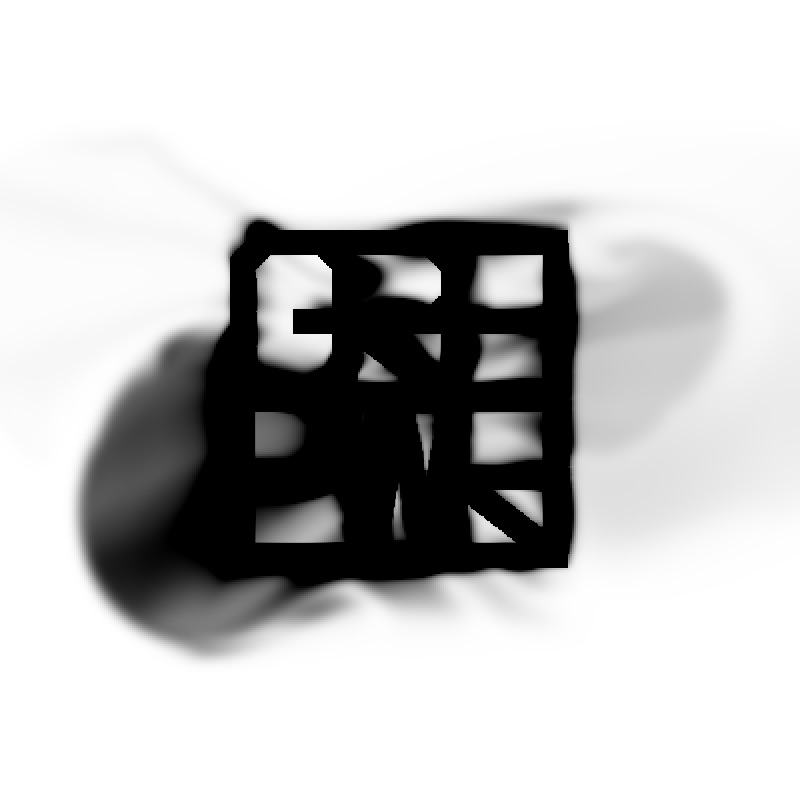
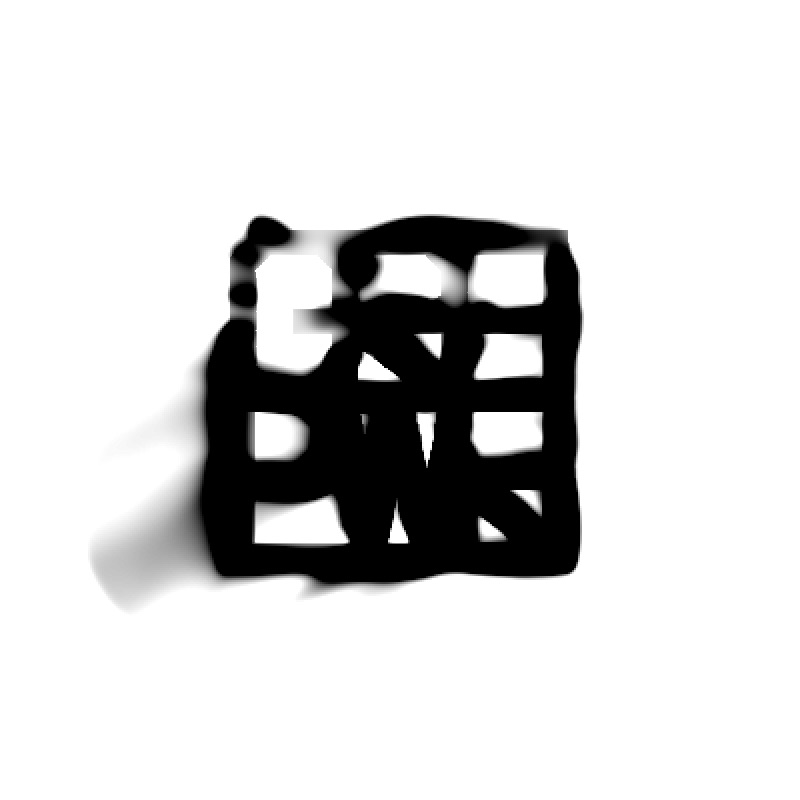
ink and flare back as they were; emboss centred and smaller on a phone
- INK: the previous shader again (it was right on phones); only the canvas
  background goes from #05000f to white, which desktop Safari showed through.
- FLARE: overlay logo removed, back to the original look.
- EMBOSS on a phone: sized by the visible area instead of screen.height, so
  the mark is in the middle of what is seen; mark 0.7 of the width.

diff --git a/dist/emboss/assets/index.5905b0ac.js b/dist/emboss/assets/index.5905b0ac.js
@@ -1,0 +1,64 @@
+var R=Object.defineProperty;var N=(o,e,t)=>e in o?R(o,e,{enumerable:!0,configurable:!0,writable:!0,value:t}):o[e]=t;var i=(o,e,t)=>(N(o,typeof e!="symbol"?e+"":e,t),t);import{d as p,W as U,S as z,P as X,O as B,a as D,T as G,b as I,V as c,M as F,c as W,e as q,C as k}from"./vendor.ce827b87.js";const V=function(){const e=document.createElement("link").relList;if(e&&e.supports&&e.supports("modulepreload"))return;for(const n of document.querySelectorAll('link[rel="modulepreload"]'))s(n);new MutationObserver(n=>{for(const r of n)if(r.type==="childList")for(const l of r.addedNodes)l.tagName==="LINK"&&l.rel==="modulepreload"&&s(l)}).observe(document,{childList:!0,subtree:!0});function t(n){const r={};return n.integrity&&(r.integrity=n.integrity),n.referrerpolicy&&(r.referrerPolicy=n.referrerpolicy),n.crossorigin==="use-credentials"?r.credentials="include":n.crossorigin==="anonymous"?r.credentials="omit":r.credentials="same-origin",r}function s(n){if(n.ep)return;n.ep=!0;const r=t(n);fetch(n.href,r)}};V();class j{constructor(e={}){i(this,"opt");i(this,"el");this.opt=e,this.el=this.opt.el}init(){}dispose(){this.opt=null,this.el=null}getEl(){return this.el}hasData(e){return this.getEl().getAttribute(e)!=null}getData(e,t){const s=this.getEl().getAttribute(e);return s==null?t:s}qs(e){return this.el.querySelector(e)}qsAll(e){return this.el.querySelectorAll(e)}hasClass(e){return this.el.classList.contains(e)}addClass(e){this.el.classList.add(e)}attachClass(e,t){e!=null&&e.classList.add(t)}detachClass(e,t){e!=null&&e.classList.remove(t)}removeClass(e){this.el.classList.remove(e)}getWidth(e){var s;let t=(s=document.defaultView)==null?void 0:s.getComputedStyle(e,null).width;return Number(t==null?void 0:t.replace("px",""))}getHeight(e){var t;if(e==null)return 0;{let s=(t=document.defaultView)==null?void 0:t.getComputedStyle(e,null).height;return Number(s==null?void 0:s.replace("px",""))}}getRect(e){var s;const t=(s=document.defaultView)==null?void 0:s.getComputedStyle(e,null);return t!=null?{width:Number(t.width.replace("px","")),height:Number(t.height.replace("px",""))}:{}}getDataNumber(e){const t=this.getEl().getAttribute(e);return t==null?0:Number(t)}getOffsetTop(e){const t=e.getBoundingClientRect();var s=window.pageYOffset||document.documentElement.scrollTop;return t.top+s}getOffset(e){const t=e.getBoundingClientRect();var s=window.pageYOffset||document.documentElement.scrollTop;return{y:t.top+s,x:t.left}}_call(e,t=null){e!=null&&(t!=null?e(t):e())}}const b=class{constructor(){i(this,"cnt",0);i(this,"_updateList",[]);i(this,"play",!0);i(this,"_update",()=>{if(this.play){this.cnt++;for(var e of this._updateList)e!=null&&e();window.requestAnimationFrame(this._update)}});window.requestAnimationFrame(this._update)}static get instance(){return this._instance||(this._instance=new b),this._instance}add(e){this._updateList.push(e)}remove(e){const t=[];this._updateList.forEach(s=>{s!=e&&t.push(s)}),this._updateList=t}};let d=b;i(d,"_instance");class y{constructor(e=0,t=0,s=0,n=0){i(this,"x",0);i(this,"y",0);i(this,"width",0);i(this,"height",0);this.x=e,this.y=t,this.width=s,this.height=n}}const P=class{constructor(){i(this,"_list",[]);i(this,"_timer",null);i(this,"size",new y);i(this,"oldSize",new y);i(this,"_call",()=>{for(var e of this._list)e!=null&&e()});window.addEventListener("resize",()=>{this._eResize()},!1)}static get instance(){return this._instance||(this._instance=new P),this._instance}_eResize(){this._setStageSize(),this._timer===null&&(clearInterval(this._timer),this._timer=null),this._timer=setTimeout(()=>{this._call(),this.oldSize.width=this.size.width,this.oldSize.height=this.size.height},300)}_setStageSize(){this.size.width=window.innerWidth,this.size.height=window.innerHeight}add(e){this._list.push(e)}remove(e){const t=[];this._list.forEach(s=>{s!=e&&t.push(s)}),this._list=t}};let m=P;i(m,"_instance");class u{constructor(e=0,t=0){i(this,"x",0);i(this,"y",0);this.x=e,this.y=t}set(e=0,t=0){this.x=e,this.y=t}copy(e){this.x=e.x,this.y=e.y}}class A extends j{constructor(e={}){super(e);i(this,"_updateHandler");i(this,"_resizeHandler");i(this,"_c",0);i(this,"_isEnter",!1);i(this,"_isOneEnter",!1);i(this,"_observer");i(this,"_elPos",new u(0,9999));i(this,"_eRollOverHandler");i(this,"_eRollOutHandler");(e.isDefEvent==null||e.isDefEvent)&&(this._updateHandler=this._update.bind(this),d.instance.add(this._updateHandler),this._resizeHandler=this._resize.bind(this),m.instance.add(this._resizeHandler))}init(){super.init()}_setHover(){this._eRollOverHandler=this._eRollOver.bind(this),this._eRollOutHandler=this._eRollOut.bind(this),this.getEl().addEventListener("mouseenter",this._eRollOverHandler),this.getEl().addEventListener("mouseleave",this._eRollOutHandler)}_disposeHover(){this._eRollOverHandler!=null&&(this.getEl().removeEventListener("mouseenter",this._eRollOverHandler),this.getEl().removeEventListener("mouseleave",this._eRollOutHandler),this._eRollOverHandler=null,this._eRollOutHandler=null)}_eRollOver(){}_eRollOut(){}_setObserver(){this._observer=new IntersectionObserver(e=>{e!=null&&e.forEach(t=>{t!=null&&t.intersectionRatio>0?this._eEnter():this._eLeave()})},{root:null}),setTimeout(()=>{if(this._observer!=null&&this._observer!=null){const e=this.getEl();e!=null&&this._observer.observe(e)}},100)}_eEnter(){this._isEnter=!0}_eLeave(){this._isEnter=!1}_disposeObserver(){(this._observer!=null||this._observer!=null)&&(this._observer.unobserve(this.getEl()),this._observer=null)}dispose(){this._updateHandler!=null&&(d.instance.remove(this._updateHandler),this._updateHandler=null),this._resizeHandler!=null&&(m.instance.remove(this._resizeHandler),this._resizeHandler=null),this._disposeHover(),this._disposeObserver(),super.dispose()}css(e,t){const s=e.style;for(var n in t)s[n]=t[n]}_update(){this._c++}_resize(){}}class _{constructor(){}}i(_,"LG",0),i(_,"XS",1);const E=class{constructor(){}static get instance(){return this._instance||(this._instance=new E),this._instance}static rdn(e){return e*Math.PI/180}random(e,t){return Math.random()*(t-e)+e}random2(e,t){let s=Math.random()*(t-e)+e;return this.hit(2)&&(s*=-1),s}randomInt(e,t){return Math.floor(Math.random()*(t-e+1))+e}hit(e=0){return e<2&&(e=2),this.randomInt(0,e-1)==0}randomArr(e){return e[this.randomInt(0,e.length-1)]}range(e){return this.random(-e,e)}clamp(e,t,s){return Math.min(s,Math.max(e,t))}map(e,t,s,n,r){if(e<=n)return t;if(e>=r)return s;const l=(s-t)/(r-n);return(e-n)*l+t}mix(e,t,s){return e*(1-s)+t*s}radian(e){return e*Math.PI/180}degree(e){return e*180/Math.PI}shuffle(e){let t=e.length;for(;--t;){let s=Math.floor(Math.random()*(t+1));if(t==s)continue;let n=e[t];e[t]=e[s],e[s]=n}}replaceAll(e,t,s){return e.split(t).join(s)}sort(e,t,s=!0){s?e.sort((n,r)=>r[t]-n[t]):e.sort((n,r)=>n[t]-r[t])}distance(e,t,s,n){const r=e-s,l=t-n;return Math.sqrt(r*r+l*l)}numStr(e,t){let s=String(e);if(s.length>=t)return s;const n=t-s.length;let r=0;for(;r<n;)s="0"+s,r++;return s}isIE(){const e=window.navigator.userAgent.toLowerCase();return e.indexOf("msie")!=-1||e.indexOf("trident/7")!=-1||e.indexOf("edge")!=-1}isIE2(){const e=window.navigator.userAgent.toLowerCase();return e.indexOf("msie")!=-1||e.indexOf("trident/7")!=-1}isWin(){return window.navigator.platform.indexOf("Win")!=-1}isChrome(){return window.navigator.userAgent.toLowerCase().indexOf("chrome")!=-1}isFF(){return window.navigator.userAgent.toLowerCase().indexOf("firefox")!=-1}isSafari(){return window.navigator.userAgent.toLowerCase().indexOf("safari")!=-1&&!this.isChrome()}useWebGL(){try{const e=document.createElement("canvas"),t=e.getContext("webgl")||e.getContext("experimental-webgl");return!!(window.WebGLRenderingContext&&t&&t.getShaderPrecisionFormat)}catch{return!1}}getQuery(e){e=e.replace(/[€[]/,"\u20AC\u20AC\u20AC[").replace(/[€]]/,"\u20AC\u20AC\u20AC]");const s=new RegExp("[\u20AC\u20AC?&]"+e+"=([^&//]*)").exec(window.location.href);return s==null?"":s[1]}isTouchDevice(){return"ontouchstart"in window||navigator!=null&&navigator.maxTouchPoints>0}isPc(){return p.mobile()==!1}isSp(){return p.mobile()}isAod(){return p.android()}isIPhone(){return p.iphone()}isIPad(){return p.tablet()}};let a=E;i(a,"_instance");const O=class{constructor(){i(this,"IS_BUILD",!1);i(this,"FLG_PARAM",(this.IS_BUILD,!1));i(this,"FLG_LOW_FPS",(this.IS_BUILD,!1));i(this,"FLG_DEBUG_TXT",(this.IS_BUILD,!1));i(this,"FLG_STATS",(this.IS_BUILD,!1));i(this,"PATH_IMG","/emboss/assets/img/");i(this,"USE_TOUCH",a.instance.isTouchDevice());i(this,"BREAKPOINT",768);i(this,"LG_PSD_WIDTH",1600);i(this,"XS_PSD_WIDTH",750);i(this,"IS_SIMPLE",a.instance.isPc()&&a.instance.isSafari());i(this,"IS_PC",a.instance.isPc());i(this,"IS_SP",a.instance.isSp());i(this,"IS_AND",a.instance.isAod());i(this,"IS_TAB",a.instance.isIPad());i(this,"USE_ROLLOVER",a.instance.isPc()&&!a.instance.isIPad());i(this,"TEXT_NUM",100)}static get instance(){return this._instance||(this._instance=new O),this._instance}};let h=O;i(h,"_instance");const C=class{constructor(){i(this,"_useFullScreen",!1)}static get instance(){return this._instance||(this._instance=new C),this._instance}ratio(){return window.devicePixelRatio||1}px(e){return e+"px"}useScreen(){return screen!=null}sw(){return window.innerWidth}sh(){return this._useFullScreen?screen.height:window.innerHeight}screenOffsetY(){return(window.innerHeight-this.sh())*.5}screen(){return window.innerWidth<=h.instance.BREAKPOINT?_.XS:_.LG}isXS(){return this.screen()==_.XS}isLG(){return this.screen()==_.LG}val(e,t){return this.isXS()?e:t}r(e){const t=this.val(h.instance.XS_PSD_WIDTH,h.instance.LG_PSD_WIDTH);return e/t*this.sw()}sin1(e){return Math.sin(e)+Math.sin(2*e)}sin2(e){return(Math.sin(e)+Math.sin(2.2*e+5.52)+Math.sin(2.9*e+.93)+Math.sin(4.6*e+8.94))/4}};let f=C;i(f,"_instance");class K extends A{constructor(e={}){super(e);i(this,"cameraPers");i(this,"cameraOrth");i(this,"renderer");i(this,"mainScene");i(this,"isRender",!0);i(this,"renderSize",new y);e.transparent==null&&(e.transparent=!1);let t={canvas:this.el,antialias:!1,preserveDrawingBuffer:!0,powerPreference:"low-power"};e.transparent&&(t.premultipliedAlpha=!0,t.alpha=!0),this.renderer=new U(t),this.renderer.autoClear=!0,this.renderer.setClearColor(16777215,1),this.mainScene=new z,this.cameraPers=this._makePersCamera(),this._updatePersCamera(this.cameraPers,100,100),this.cameraOrth=this._makeOrthCamera(),this._updateOrthCamera(this.cameraOrth,100,100)}init(){super.init()}_makePersCamera(){return new X(60,1,.1,5e4)}_makeOrthCamera(){return new B(1,1,1,1)}_updatePersCamera(e,t=10,s=10){e.aspect=t/s,e.updateProjectionMatrix(),e.position.z=s/Math.tan(e.fov*Math.PI/360)/1}_updateOrthCamera(e,t=10,s=10){e.left=-t*.5,e.right=t*.5,e.top=s*.5,e.bottom=-s*.5,e.near=-1e4,e.far=1e4,e.updateProjectionMatrix(),e.position.set(0,0,1)}_update(){super._update()}_setUni(e,t,s){const n=this._getUni(e);n[t].value=s}_getUni(e){return e.material.uniforms}}var Y=`varying vec2 vUv;
+
+void main(){
+  vUv = uv;
+  gl_Position = projectionMatrix * modelViewMatrix * vec4(position, 1.0);
+}`,Q=`uniform sampler2D t;
+uniform bool useMask;
+uniform vec3 c;
+uniform vec2 bp;
+uniform vec2 ma;
+uniform vec2 mb;
+uniform vec2 mc;
+uniform float line;
+uniform float time;
+
+varying vec2 vUv;
+
+void main(void) {
+  vec3 p = vec3(vUv, 0.0);
+
+  vec3 v1 = vec3(ma, 0.0);
+  vec3 v2 = vec3(mb, 0.0);
+  vec3 v3 = vec3(mc, 0.0);
+
+  vec3 pA = cross(v2 - v1, p - v1);
+  vec3 pB = cross(v3 - v2, p - v2);
+  vec3 pC = cross(v1 - v3, p - v3);
+
+  float dotA = dot(pA, pB);
+  float dotB = dot(pA, pC);
+
+  vec4 dest = texture2D(t, vUv);
+  dest.rgb = c;
+
+  float lineScale = -1.0;
+  
+  
+  
+
+  vec2 v = (vUv.xy + vec2(time * 0.5, 0.1)) * lineScale;
+  v = mix(vUv, v, distance(bp, vUv) * -0.19);
+  float f = sin(v.x + v.y);
+  dest.a *= smoothstep(abs(f), line, distance(bp, vUv) * 1.0);
+
+  gl_FragColor = dest;
+
+  
+  
+  
+  
+  
+
+  
+  
+  
+  
+
+  
+  
+  
+  
+  
+  
+}`;class $ extends D{constructor(){super();i(this,"_updateHandler");i(this,"_layoutHandler");i(this,"_c",0);this._updateHandler=this._update.bind(this),d.instance.add(this._updateHandler),this._layoutHandler=this._resize.bind(this),m.instance.add(this._layoutHandler)}init(){}dispose(){d.instance.remove(this._updateHandler),this._updateHandler=null,m.instance.remove(this._layoutHandler),this._layoutHandler=null}_update(){this._c++}_resize(){}_getUni(e){return e.material.uniforms}_setUni(e,t,s){const n=this._getUni(e);n[t].value=s}_call(e){e!=null&&e()}}class M{constructor(){}load(e,t){const s=new G,n=new Image;return n.onload=()=>{s.image=n,s.needsUpdate=!0,t!=null&&t()},n.src=e,s}}const L=class{constructor(){i(this,"_list",[]);i(this,"_tex",[]);i(this,"_loadedNum",0);i(this,"_isIE",a.instance.isIE());i(this,"onComplete");i(this,"onProgress")}static get instance(){return this._instance||(this._instance=new L),this._instance}load(e){if(this.onComplete=e.onComplete,this.onProgress=e.onProgress,e.list.length==0){this.onComplete!=null&&this.onComplete();return}this._list=e.list,this._loadedNum=0,this._load()}_load(){const e=this._list[this._loadedNum];if(this.check(e.src)){this._loadedImg();return}let t,s;this._isIE?(t=new M,s=t.load(e.src,()=>{this._loadedImg()})):(t=new I,t.crossOrigin="*",s=t.load(e.src,()=>{this._loadedImg()})),this._tex.push({tex:s,src:e.src})}_loadedImg(){if(this._loadedNum++,this.onProgress!=null&&this.onProgress(this._loadedNum/this._list.length),this._loadedNum>=this._list.length){this.onComplete!=null&&this.onComplete();return}this._load()}get(e){let t=null;if(this._tex.forEach(r=>{r.src==e&&(t=r.tex)}),t!=null)return t;let s;this._isIE?s=new M:(s=new I,s.crossOrigin="anonymous");const n=s.load(e);return this._tex.push({tex:n,src:e}),n}check(e){let t=!1;return this._tex.forEach(s=>{s.src==e&&(t=!0)}),t}};let S=L;i(S,"_instance");const T=class{constructor(){i(this,"x",window.innerWidth*.5);i(this,"y",window.innerHeight*.5);i(this,"old",new u);i(this,"normal",new u);i(this,"easeNormal",new u);i(this,"start",new u);i(this,"moveDist",new u);i(this,"dist",0);i(this,"isDown",!1);i(this,"usePreventDefault",!1);i(this,"onSwipe");i(this,"_updateHandler");if(a.instance.isTouchDevice()){const e=document.querySelector(".matter")||window;e.addEventListener("touchstart",(t={})=>{this._eTouchStart(t)},{passive:!1}),e.addEventListener("touchend",()=>{this._eTouchEnd()},{passive:!1}),e.addEventListener("touchmove",(t={})=>{this._eTouchMove(t)},{passive:!1})}else window.addEventListener("mousedown",(e={})=>{this._eDown(e)}),window.addEventListener("mouseup",()=>{this._eUp()}),window.addEventListener("mousemove",(e={})=>{this._eMove(e)});this._updateHandler=this._update.bind(this),d.instance.add(this._updateHandler)}static get instance(){return this._instance||(this._instance=new T),this._instance}_eTouchStart(e={}){this.isDown=!0,this._eTouchMove(e);const t=this._getTouchPoint(e);this.start.x=t.x,this.start.y=t.y}_eTouchEnd(){this.isDown=!1;const e=this.old.x-this.x,t=this.old.y-this.y;(Math.abs(t)>0||Math.abs(e)>0)&&this.onSwipe!=null&&this.onSwipe({move:t}),this.dist=0}_eTouchMove(e={}){const t=this._getTouchPoint(e);this.old.x=this.x,this.old.y=this.y,this.x=t.x,this.y=t.y;const s=this.old.x-this.x,n=this.old.y-this.y;this.dist=Math.sqrt(s*s+n*n),this.usePreventDefault&&e.preventDefault()}_eDown(e={}){this.isDown=!0,this._eMove(e),this.start.x=this.x,this.start.y=this.y}_eUp(){this.isDown=!1}_eMove(e={}){this.old.x=this.x,this.old.y=this.y,this.x=e.clientX,this.y=e.clientY;const t=this.old.x-this.x,s=this.old.y-this.y;this.dist=Math.sqrt(t*t+s*s)}_getTouchPoint(e){const t=new u,s=e.touches;return s!=null&&s.length>0&&(t.x=s[0].pageX,t.y=s[0].pageY),t}_update(){this.isDown?(this.moveDist.x=this.start.x-this.x,this.moveDist.y=this.start.y-this.y):(this.moveDist.x+=(0-this.moveDist.x)*.25,this.moveDist.y+=(0-this.moveDist.y)*.25),this.normal.x=a.instance.map(this.x,-1,1,0,window.innerWidth),this.normal.y=a.instance.map(this.y,-1,1,0,window.innerHeight);const e=.1;this.easeNormal.x+=(this.normal.x-this.easeNormal.x)*e,this.easeNormal.y+=(this.normal.y-this.easeNormal.y)*e}};let v=T;i(v,"_instance");const J=3.95,Z=3.68,ee=.7;class te extends ${constructor(e){super();i(this,"_mesh");i(this,"_scale",1);i(this,"_noise",new c(a.instance.range(1),a.instance.range(1)));this._noise.x=e.id,this._scale=e.scale;const t=S.instance.get(h.instance.PATH_IMG+"tex-text.png");this._mesh=new F(new W(1,1),new q({vertexShader:Y,fragmentShader:Q,transparent:!0,depthTest:!1,uniforms:{useMask:{value:!e.useMask},t:{value:t},c:{value:e.color},bp:{value:new c(.5,.5)},ma:{value:new c(0,0)},mb:{value:new c(.5,1)},mc:{value:new c(.75,0)},line:{value:a.instance.map(this._noise.x,0,1,0,h.instance.TEXT_NUM-1)},time:{value:0}}})),this.add(this._mesh),this._mesh.renderOrder=h.instance.TEXT_NUM-this._noise.x}setMask(e,t,s){const n=this._getUni(this._mesh);n.ma.value.copy(e),n.mb.value.copy(t),n.mc.value.copy(s)}_update(){super._update();const e=f.instance.sw();let s=(e<=h.instance.BREAKPOINT?ee*Z:.403*J)*e;s*=this._scale,this._mesh.scale.set(s,s,1);const n=v.instance.easeNormal.x,r=v.instance.easeNormal.y,l=new c(.5,.5),g=.25,w=.25;this.setMask(new c(l.x+n*g,l.y+a.instance.map(r,w,-w,-1,1)),new c(l.x-.5+n*g,l.y-.5+a.instance.map(r,0,w,-1,1)),new c(l.x+.5+n*g,l.y-.5+a.instance.map(r,w,0,-1,1))),this.position.x=s*1*n*.15*a.instance.map(this._noise.x,0,2,0,h.instance.TEXT_NUM-1),this.position.y=s*1*r*-.15*a.instance.map(this._noise.x,0,2,0,h.instance.TEXT_NUM-1),this.position.z=a.instance.map(this._noise.x,0,-1,0,h.instance.TEXT_NUM-1)*s*1.1;const H=this._getUni(this._mesh);H.time.value+=.1,H.bp.value.set(a.instance.map(n,0,1,-1,1),a.instance.map(r*-1,0,1,-1,1))}}class se{constructor(){i(this,"h",0);i(this,"s",0);i(this,"l",0)}}const x=()=>/^\/emboss-black(\/|$)/.test(window.location.pathname);class ie extends K{constructor(e){super(e);i(this,"_con");this._con=new D,this.mainScene.add(this._con),x()&&document.body.classList.add("-black");const t=h.instance.TEXT_NUM;for(let s=0;s<t;s++){const n=new k(16777215),r=new se;n.getHSL(r),r.h=a.instance.map(s,0,1,0,t-1),r.l=x()?a.instance.map(s,0,.75,0,t-1):a.instance.map(s,1,.25,0,t-1),n.setHSL(r.h,r.s,r.l),this._con.add(new te({id:s,color:n,useMask:!0,scale:a.instance.map(s,.5,1,0,t-1)}))}this._resize()}_update(){super._update();const e=v.instance.easeNormal.x,t=v.instance.easeNormal.y;this._con.rotation.y=a.instance.radian(e*-10),this._con.rotation.x=a.instance.radian(t*-10),this.isNowRenderFrame()&&this._render()}_render(){this.renderer.setClearColor(x()?16777215:0,1),this.renderer.render(this.mainScene,this.cameraPers)}isNowRenderFrame(){return this.isRender&&d.instance.cnt%1==0}_resize(){super._resize();const e=f.instance.sw(),t=f.instance.sh();this.renderSize.width=e,this.renderSize.height=t,this._updateOrthCamera(this.cameraOrth,e,t),this.cameraPers.fov=70,this._updatePersCamera(this.cameraPers,e,t);let s=window.devicePixelRatio||1;this.renderer.setPixelRatio(s),this.renderer.setSize(e,t),this.renderer.clear()}}class ne extends A{constructor(e){super(e);new ie({el:document.querySelector(".l-canvas"),transparent:!0})}}new ne({el:document.body});

diff --git a/public/emboss/assets/index.5905b0ac.js b/public/emboss/assets/index.5905b0ac.js
@@ -1,0 +1,64 @@
+var R=Object.defineProperty;var N=(o,e,t)=>e in o?R(o,e,{enumerable:!0,configurable:!0,writable:!0,value:t}):o[e]=t;var i=(o,e,t)=>(N(o,typeof e!="symbol"?e+"":e,t),t);import{d as p,W as U,S as z,P as X,O as B,a as D,T as G,b as I,V as c,M as F,c as W,e as q,C as k}from"./vendor.ce827b87.js";const V=function(){const e=document.createElement("link").relList;if(e&&e.supports&&e.supports("modulepreload"))return;for(const n of document.querySelectorAll('link[rel="modulepreload"]'))s(n);new MutationObserver(n=>{for(const r of n)if(r.type==="childList")for(const l of r.addedNodes)l.tagName==="LINK"&&l.rel==="modulepreload"&&s(l)}).observe(document,{childList:!0,subtree:!0});function t(n){const r={};return n.integrity&&(r.integrity=n.integrity),n.referrerpolicy&&(r.referrerPolicy=n.referrerpolicy),n.crossorigin==="use-credentials"?r.credentials="include":n.crossorigin==="anonymous"?r.credentials="omit":r.credentials="same-origin",r}function s(n){if(n.ep)return;n.ep=!0;const r=t(n);fetch(n.href,r)}};V();class j{constructor(e={}){i(this,"opt");i(this,"el");this.opt=e,this.el=this.opt.el}init(){}dispose(){this.opt=null,this.el=null}getEl(){return this.el}hasData(e){return this.getEl().getAttribute(e)!=null}getData(e,t){const s=this.getEl().getAttribute(e);return s==null?t:s}qs(e){return this.el.querySelector(e)}qsAll(e){return this.el.querySelectorAll(e)}hasClass(e){return this.el.classList.contains(e)}addClass(e){this.el.classList.add(e)}attachClass(e,t){e!=null&&e.classList.add(t)}detachClass(e,t){e!=null&&e.classList.remove(t)}removeClass(e){this.el.classList.remove(e)}getWidth(e){var s;let t=(s=document.defaultView)==null?void 0:s.getComputedStyle(e,null).width;return Number(t==null?void 0:t.replace("px",""))}getHeight(e){var t;if(e==null)return 0;{let s=(t=document.defaultView)==null?void 0:t.getComputedStyle(e,null).height;return Number(s==null?void 0:s.replace("px",""))}}getRect(e){var s;const t=(s=document.defaultView)==null?void 0:s.getComputedStyle(e,null);return t!=null?{width:Number(t.width.replace("px","")),height:Number(t.height.replace("px",""))}:{}}getDataNumber(e){const t=this.getEl().getAttribute(e);return t==null?0:Number(t)}getOffsetTop(e){const t=e.getBoundingClientRect();var s=window.pageYOffset||document.documentElement.scrollTop;return t.top+s}getOffset(e){const t=e.getBoundingClientRect();var s=window.pageYOffset||document.documentElement.scrollTop;return{y:t.top+s,x:t.left}}_call(e,t=null){e!=null&&(t!=null?e(t):e())}}const b=class{constructor(){i(this,"cnt",0);i(this,"_updateList",[]);i(this,"play",!0);i(this,"_update",()=>{if(this.play){this.cnt++;for(var e of this._updateList)e!=null&&e();window.requestAnimationFrame(this._update)}});window.requestAnimationFrame(this._update)}static get instance(){return this._instance||(this._instance=new b),this._instance}add(e){this._updateList.push(e)}remove(e){const t=[];this._updateList.forEach(s=>{s!=e&&t.push(s)}),this._updateList=t}};let d=b;i(d,"_instance");class y{constructor(e=0,t=0,s=0,n=0){i(this,"x",0);i(this,"y",0);i(this,"width",0);i(this,"height",0);this.x=e,this.y=t,this.width=s,this.height=n}}const P=class{constructor(){i(this,"_list",[]);i(this,"_timer",null);i(this,"size",new y);i(this,"oldSize",new y);i(this,"_call",()=>{for(var e of this._list)e!=null&&e()});window.addEventListener("resize",()=>{this._eResize()},!1)}static get instance(){return this._instance||(this._instance=new P),this._instance}_eResize(){this._setStageSize(),this._timer===null&&(clearInterval(this._timer),this._timer=null),this._timer=setTimeout(()=>{this._call(),this.oldSize.width=this.size.width,this.oldSize.height=this.size.height},300)}_setStageSize(){this.size.width=window.innerWidth,this.size.height=window.innerHeight}add(e){this._list.push(e)}remove(e){const t=[];this._list.forEach(s=>{s!=e&&t.push(s)}),this._list=t}};let m=P;i(m,"_instance");class u{constructor(e=0,t=0){i(this,"x",0);i(this,"y",0);this.x=e,this.y=t}set(e=0,t=0){this.x=e,this.y=t}copy(e){this.x=e.x,this.y=e.y}}class A extends j{constructor(e={}){super(e);i(this,"_updateHandler");i(this,"_resizeHandler");i(this,"_c",0);i(this,"_isEnter",!1);i(this,"_isOneEnter",!1);i(this,"_observer");i(this,"_elPos",new u(0,9999));i(this,"_eRollOverHandler");i(this,"_eRollOutHandler");(e.isDefEvent==null||e.isDefEvent)&&(this._updateHandler=this._update.bind(this),d.instance.add(this._updateHandler),this._resizeHandler=this._resize.bind(this),m.instance.add(this._resizeHandler))}init(){super.init()}_setHover(){this._eRollOverHandler=this._eRollOver.bind(this),this._eRollOutHandler=this._eRollOut.bind(this),this.getEl().addEventListener("mouseenter",this._eRollOverHandler),this.getEl().addEventListener("mouseleave",this._eRollOutHandler)}_disposeHover(){this._eRollOverHandler!=null&&(this.getEl().removeEventListener("mouseenter",this._eRollOverHandler),this.getEl().removeEventListener("mouseleave",this._eRollOutHandler),this._eRollOverHandler=null,this._eRollOutHandler=null)}_eRollOver(){}_eRollOut(){}_setObserver(){this._observer=new IntersectionObserver(e=>{e!=null&&e.forEach(t=>{t!=null&&t.intersectionRatio>0?this._eEnter():this._eLeave()})},{root:null}),setTimeout(()=>{if(this._observer!=null&&this._observer!=null){const e=this.getEl();e!=null&&this._observer.observe(e)}},100)}_eEnter(){this._isEnter=!0}_eLeave(){this._isEnter=!1}_disposeObserver(){(this._observer!=null||this._observer!=null)&&(this._observer.unobserve(this.getEl()),this._observer=null)}dispose(){this._updateHandler!=null&&(d.instance.remove(this._updateHandler),this._updateHandler=null),this._resizeHandler!=null&&(m.instance.remove(this._resizeHandler),this._resizeHandler=null),this._disposeHover(),this._disposeObserver(),super.dispose()}css(e,t){const s=e.style;for(var n in t)s[n]=t[n]}_update(){this._c++}_resize(){}}class _{constructor(){}}i(_,"LG",0),i(_,"XS",1);const E=class{constructor(){}static get instance(){return this._instance||(this._instance=new E),this._instance}static rdn(e){return e*Math.PI/180}random(e,t){return Math.random()*(t-e)+e}random2(e,t){let s=Math.random()*(t-e)+e;return this.hit(2)&&(s*=-1),s}randomInt(e,t){return Math.floor(Math.random()*(t-e+1))+e}hit(e=0){return e<2&&(e=2),this.randomInt(0,e-1)==0}randomArr(e){return e[this.randomInt(0,e.length-1)]}range(e){return this.random(-e,e)}clamp(e,t,s){return Math.min(s,Math.max(e,t))}map(e,t,s,n,r){if(e<=n)return t;if(e>=r)return s;const l=(s-t)/(r-n);return(e-n)*l+t}mix(e,t,s){return e*(1-s)+t*s}radian(e){return e*Math.PI/180}degree(e){return e*180/Math.PI}shuffle(e){let t=e.length;for(;--t;){let s=Math.floor(Math.random()*(t+1));if(t==s)continue;let n=e[t];e[t]=e[s],e[s]=n}}replaceAll(e,t,s){return e.split(t).join(s)}sort(e,t,s=!0){s?e.sort((n,r)=>r[t]-n[t]):e.sort((n,r)=>n[t]-r[t])}distance(e,t,s,n){const r=e-s,l=t-n;return Math.sqrt(r*r+l*l)}numStr(e,t){let s=String(e);if(s.length>=t)return s;const n=t-s.length;let r=0;for(;r<n;)s="0"+s,r++;return s}isIE(){const e=window.navigator.userAgent.toLowerCase();return e.indexOf("msie")!=-1||e.indexOf("trident/7")!=-1||e.indexOf("edge")!=-1}isIE2(){const e=window.navigator.userAgent.toLowerCase();return e.indexOf("msie")!=-1||e.indexOf("trident/7")!=-1}isWin(){return window.navigator.platform.indexOf("Win")!=-1}isChrome(){return window.navigator.userAgent.toLowerCase().indexOf("chrome")!=-1}isFF(){return window.navigator.userAgent.toLowerCase().indexOf("firefox")!=-1}isSafari(){return window.navigator.userAgent.toLowerCase().indexOf("safari")!=-1&&!this.isChrome()}useWebGL(){try{const e=document.createElement("canvas"),t=e.getContext("webgl")||e.getContext("experimental-webgl");return!!(window.WebGLRenderingContext&&t&&t.getShaderPrecisionFormat)}catch{return!1}}getQuery(e){e=e.replace(/[€[]/,"\u20AC\u20AC\u20AC[").replace(/[€]]/,"\u20AC\u20AC\u20AC]");const s=new RegExp("[\u20AC\u20AC?&]"+e+"=([^&//]*)").exec(window.location.href);return s==null?"":s[1]}isTouchDevice(){return"ontouchstart"in window||navigator!=null&&navigator.maxTouchPoints>0}isPc(){return p.mobile()==!1}isSp(){return p.mobile()}isAod(){return p.android()}isIPhone(){return p.iphone()}isIPad(){return p.tablet()}};let a=E;i(a,"_instance");const O=class{constructor(){i(this,"IS_BUILD",!1);i(this,"FLG_PARAM",(this.IS_BUILD,!1));i(this,"FLG_LOW_FPS",(this.IS_BUILD,!1));i(this,"FLG_DEBUG_TXT",(this.IS_BUILD,!1));i(this,"FLG_STATS",(this.IS_BUILD,!1));i(this,"PATH_IMG","/emboss/assets/img/");i(this,"USE_TOUCH",a.instance.isTouchDevice());i(this,"BREAKPOINT",768);i(this,"LG_PSD_WIDTH",1600);i(this,"XS_PSD_WIDTH",750);i(this,"IS_SIMPLE",a.instance.isPc()&&a.instance.isSafari());i(this,"IS_PC",a.instance.isPc());i(this,"IS_SP",a.instance.isSp());i(this,"IS_AND",a.instance.isAod());i(this,"IS_TAB",a.instance.isIPad());i(this,"USE_ROLLOVER",a.instance.isPc()&&!a.instance.isIPad());i(this,"TEXT_NUM",100)}static get instance(){return this._instance||(this._instance=new O),this._instance}};let h=O;i(h,"_instance");const C=class{constructor(){i(this,"_useFullScreen",!1)}static get instance(){return this._instance||(this._instance=new C),this._instance}ratio(){return window.devicePixelRatio||1}px(e){return e+"px"}useScreen(){return screen!=null}sw(){return window.innerWidth}sh(){return this._useFullScreen?screen.height:window.innerHeight}screenOffsetY(){return(window.innerHeight-this.sh())*.5}screen(){return window.innerWidth<=h.instance.BREAKPOINT?_.XS:_.LG}isXS(){return this.screen()==_.XS}isLG(){return this.screen()==_.LG}val(e,t){return this.isXS()?e:t}r(e){const t=this.val(h.instance.XS_PSD_WIDTH,h.instance.LG_PSD_WIDTH);return e/t*this.sw()}sin1(e){return Math.sin(e)+Math.sin(2*e)}sin2(e){return(Math.sin(e)+Math.sin(2.2*e+5.52)+Math.sin(2.9*e+.93)+Math.sin(4.6*e+8.94))/4}};let f=C;i(f,"_instance");class K extends A{constructor(e={}){super(e);i(this,"cameraPers");i(this,"cameraOrth");i(this,"renderer");i(this,"mainScene");i(this,"isRender",!0);i(this,"renderSize",new y);e.transparent==null&&(e.transparent=!1);let t={canvas:this.el,antialias:!1,preserveDrawingBuffer:!0,powerPreference:"low-power"};e.transparent&&(t.premultipliedAlpha=!0,t.alpha=!0),this.renderer=new U(t),this.renderer.autoClear=!0,this.renderer.setClearColor(16777215,1),this.mainScene=new z,this.cameraPers=this._makePersCamera(),this._updatePersCamera(this.cameraPers,100,100),this.cameraOrth=this._makeOrthCamera(),this._updateOrthCamera(this.cameraOrth,100,100)}init(){super.init()}_makePersCamera(){return new X(60,1,.1,5e4)}_makeOrthCamera(){return new B(1,1,1,1)}_updatePersCamera(e,t=10,s=10){e.aspect=t/s,e.updateProjectionMatrix(),e.position.z=s/Math.tan(e.fov*Math.PI/360)/1}_updateOrthCamera(e,t=10,s=10){e.left=-t*.5,e.right=t*.5,e.top=s*.5,e.bottom=-s*.5,e.near=-1e4,e.far=1e4,e.updateProjectionMatrix(),e.position.set(0,0,1)}_update(){super._update()}_setUni(e,t,s){const n=this._getUni(e);n[t].value=s}_getUni(e){return e.material.uniforms}}var Y=`varying vec2 vUv;
+
+void main(){
+  vUv = uv;
+  gl_Position = projectionMatrix * modelViewMatrix * vec4(position, 1.0);
+}`,Q=`uniform sampler2D t;
+uniform bool useMask;
+uniform vec3 c;
+uniform vec2 bp;
+uniform vec2 ma;
+uniform vec2 mb;
+uniform vec2 mc;
+uniform float line;
+uniform float time;
+
+varying vec2 vUv;
+
+void main(void) {
+  vec3 p = vec3(vUv, 0.0);
+
+  vec3 v1 = vec3(ma, 0.0);
+  vec3 v2 = vec3(mb, 0.0);
+  vec3 v3 = vec3(mc, 0.0);
+
+  vec3 pA = cross(v2 - v1, p - v1);
+  vec3 pB = cross(v3 - v2, p - v2);
+  vec3 pC = cross(v1 - v3, p - v3);
+
+  float dotA = dot(pA, pB);
+  float dotB = dot(pA, pC);
+
+  vec4 dest = texture2D(t, vUv);
+  dest.rgb = c;
+
+  float lineScale = -1.0;
+  
+  
+  
+
+  vec2 v = (vUv.xy + vec2(time * 0.5, 0.1)) * lineScale;
+  v = mix(vUv, v, distance(bp, vUv) * -0.19);
+  float f = sin(v.x + v.y);
+  dest.a *= smoothstep(abs(f), line, distance(bp, vUv) * 1.0);
+
+  gl_FragColor = dest;
+
+  
+  
+  
+  
+  
+
+  
+  
+  
+  
+
+  
+  
+  
+  
+  
+  
+}`;class $ extends D{constructor(){super();i(this,"_updateHandler");i(this,"_layoutHandler");i(this,"_c",0);this._updateHandler=this._update.bind(this),d.instance.add(this._updateHandler),this._layoutHandler=this._resize.bind(this),m.instance.add(this._layoutHandler)}init(){}dispose(){d.instance.remove(this._updateHandler),this._updateHandler=null,m.instance.remove(this._layoutHandler),this._layoutHandler=null}_update(){this._c++}_resize(){}_getUni(e){return e.material.uniforms}_setUni(e,t,s){const n=this._getUni(e);n[t].value=s}_call(e){e!=null&&e()}}class M{constructor(){}load(e,t){const s=new G,n=new Image;return n.onload=()=>{s.image=n,s.needsUpdate=!0,t!=null&&t()},n.src=e,s}}const L=class{constructor(){i(this,"_list",[]);i(this,"_tex",[]);i(this,"_loadedNum",0);i(this,"_isIE",a.instance.isIE());i(this,"onComplete");i(this,"onProgress")}static get instance(){return this._instance||(this._instance=new L),this._instance}load(e){if(this.onComplete=e.onComplete,this.onProgress=e.onProgress,e.list.length==0){this.onComplete!=null&&this.onComplete();return}this._list=e.list,this._loadedNum=0,this._load()}_load(){const e=this._list[this._loadedNum];if(this.check(e.src)){this._loadedImg();return}let t,s;this._isIE?(t=new M,s=t.load(e.src,()=>{this._loadedImg()})):(t=new I,t.crossOrigin="*",s=t.load(e.src,()=>{this._loadedImg()})),this._tex.push({tex:s,src:e.src})}_loadedImg(){if(this._loadedNum++,this.onProgress!=null&&this.onProgress(this._loadedNum/this._list.length),this._loadedNum>=this._list.length){this.onComplete!=null&&this.onComplete();return}this._load()}get(e){let t=null;if(this._tex.forEach(r=>{r.src==e&&(t=r.tex)}),t!=null)return t;let s;this._isIE?s=new M:(s=new I,s.crossOrigin="anonymous");const n=s.load(e);return this._tex.push({tex:n,src:e}),n}check(e){let t=!1;return this._tex.forEach(s=>{s.src==e&&(t=!0)}),t}};let S=L;i(S,"_instance");const T=class{constructor(){i(this,"x",window.innerWidth*.5);i(this,"y",window.innerHeight*.5);i(this,"old",new u);i(this,"normal",new u);i(this,"easeNormal",new u);i(this,"start",new u);i(this,"moveDist",new u);i(this,"dist",0);i(this,"isDown",!1);i(this,"usePreventDefault",!1);i(this,"onSwipe");i(this,"_updateHandler");if(a.instance.isTouchDevice()){const e=document.querySelector(".matter")||window;e.addEventListener("touchstart",(t={})=>{this._eTouchStart(t)},{passive:!1}),e.addEventListener("touchend",()=>{this._eTouchEnd()},{passive:!1}),e.addEventListener("touchmove",(t={})=>{this._eTouchMove(t)},{passive:!1})}else window.addEventListener("mousedown",(e={})=>{this._eDown(e)}),window.addEventListener("mouseup",()=>{this._eUp()}),window.addEventListener("mousemove",(e={})=>{this._eMove(e)});this._updateHandler=this._update.bind(this),d.instance.add(this._updateHandler)}static get instance(){return this._instance||(this._instance=new T),this._instance}_eTouchStart(e={}){this.isDown=!0,this._eTouchMove(e);const t=this._getTouchPoint(e);this.start.x=t.x,this.start.y=t.y}_eTouchEnd(){this.isDown=!1;const e=this.old.x-this.x,t=this.old.y-this.y;(Math.abs(t)>0||Math.abs(e)>0)&&this.onSwipe!=null&&this.onSwipe({move:t}),this.dist=0}_eTouchMove(e={}){const t=this._getTouchPoint(e);this.old.x=this.x,this.old.y=this.y,this.x=t.x,this.y=t.y;const s=this.old.x-this.x,n=this.old.y-this.y;this.dist=Math.sqrt(s*s+n*n),this.usePreventDefault&&e.preventDefault()}_eDown(e={}){this.isDown=!0,this._eMove(e),this.start.x=this.x,this.start.y=this.y}_eUp(){this.isDown=!1}_eMove(e={}){this.old.x=this.x,this.old.y=this.y,this.x=e.clientX,this.y=e.clientY;const t=this.old.x-this.x,s=this.old.y-this.y;this.dist=Math.sqrt(t*t+s*s)}_getTouchPoint(e){const t=new u,s=e.touches;return s!=null&&s.length>0&&(t.x=s[0].pageX,t.y=s[0].pageY),t}_update(){this.isDown?(this.moveDist.x=this.start.x-this.x,this.moveDist.y=this.start.y-this.y):(this.moveDist.x+=(0-this.moveDist.x)*.25,this.moveDist.y+=(0-this.moveDist.y)*.25),this.normal.x=a.instance.map(this.x,-1,1,0,window.innerWidth),this.normal.y=a.instance.map(this.y,-1,1,0,window.innerHeight);const e=.1;this.easeNormal.x+=(this.normal.x-this.easeNormal.x)*e,this.easeNormal.y+=(this.normal.y-this.easeNormal.y)*e}};let v=T;i(v,"_instance");const J=3.95,Z=3.68,ee=.7;class te extends ${constructor(e){super();i(this,"_mesh");i(this,"_scale",1);i(this,"_noise",new c(a.instance.range(1),a.instance.range(1)));this._noise.x=e.id,this._scale=e.scale;const t=S.instance.get(h.instance.PATH_IMG+"tex-text.png");this._mesh=new F(new W(1,1),new q({vertexShader:Y,fragmentShader:Q,transparent:!0,depthTest:!1,uniforms:{useMask:{value:!e.useMask},t:{value:t},c:{value:e.color},bp:{value:new c(.5,.5)},ma:{value:new c(0,0)},mb:{value:new c(.5,1)},mc:{value:new c(.75,0)},line:{value:a.instance.map(this._noise.x,0,1,0,h.instance.TEXT_NUM-1)},time:{value:0}}})),this.add(this._mesh),this._mesh.renderOrder=h.instance.TEXT_NUM-this._noise.x}setMask(e,t,s){const n=this._getUni(this._mesh);n.ma.value.copy(e),n.mb.value.copy(t),n.mc.value.copy(s)}_update(){super._update();const e=f.instance.sw();let s=(e<=h.instance.BREAKPOINT?ee*Z:.403*J)*e;s*=this._scale,this._mesh.scale.set(s,s,1);const n=v.instance.easeNormal.x,r=v.instance.easeNormal.y,l=new c(.5,.5),g=.25,w=.25;this.setMask(new c(l.x+n*g,l.y+a.instance.map(r,w,-w,-1,1)),new c(l.x-.5+n*g,l.y-.5+a.instance.map(r,0,w,-1,1)),new c(l.x+.5+n*g,l.y-.5+a.instance.map(r,w,0,-1,1))),this.position.x=s*1*n*.15*a.instance.map(this._noise.x,0,2,0,h.instance.TEXT_NUM-1),this.position.y=s*1*r*-.15*a.instance.map(this._noise.x,0,2,0,h.instance.TEXT_NUM-1),this.position.z=a.instance.map(this._noise.x,0,-1,0,h.instance.TEXT_NUM-1)*s*1.1;const H=this._getUni(this._mesh);H.time.value+=.1,H.bp.value.set(a.instance.map(n,0,1,-1,1),a.instance.map(r*-1,0,1,-1,1))}}class se{constructor(){i(this,"h",0);i(this,"s",0);i(this,"l",0)}}const x=()=>/^\/emboss-black(\/|$)/.test(window.location.pathname);class ie extends K{constructor(e){super(e);i(this,"_con");this._con=new D,this.mainScene.add(this._con),x()&&document.body.classList.add("-black");const t=h.instance.TEXT_NUM;for(let s=0;s<t;s++){const n=new k(16777215),r=new se;n.getHSL(r),r.h=a.instance.map(s,0,1,0,t-1),r.l=x()?a.instance.map(s,0,.75,0,t-1):a.instance.map(s,1,.25,0,t-1),n.setHSL(r.h,r.s,r.l),this._con.add(new te({id:s,color:n,useMask:!0,scale:a.instance.map(s,.5,1,0,t-1)}))}this._resize()}_update(){super._update();const e=v.instance.easeNormal.x,t=v.instance.easeNormal.y;this._con.rotation.y=a.instance.radian(e*-10),this._con.rotation.x=a.instance.radian(t*-10),this.isNowRenderFrame()&&this._render()}_render(){this.renderer.setClearColor(x()?16777215:0,1),this.renderer.render(this.mainScene,this.cameraPers)}isNowRenderFrame(){return this.isRender&&d.instance.cnt%1==0}_resize(){super._resize();const e=f.instance.sw(),t=f.instance.sh();this.renderSize.width=e,this.renderSize.height=t,this._updateOrthCamera(this.cameraOrth,e,t),this.cameraPers.fov=70,this._updatePersCamera(this.cameraPers,e,t);let s=window.devicePixelRatio||1;this.renderer.setPixelRatio(s),this.renderer.setSize(e,t),this.renderer.clear()}}class ne extends A{constructor(e){super(e);new ie({el:document.querySelector(".l-canvas"),transparent:!0})}}new ne({el:document.body});

diff --git a/dist/ink/index.html b/dist/ink/index.html
@@ -7,7 +7,7 @@
     <title>ink — grbpwr</title>
   <script type="module" crossorigin src="/assets/index.1b20ef5b.js"></script>
   <link rel="modulepreload" href="/assets/modulepreload-polyfill.b7f2da20.js">
-  <link rel="stylesheet" href="/assets/index.059d4bc4.css">
+  <link rel="stylesheet" href="/assets/index.9defe149.css">
 </head>
 
 <body class="ink">
@@ -187,11 +187,9 @@
     void main () {
         vec3 C = texture2D(u_output_texture, vUv).rgb;
         float text = texture2D(u_text_texture, vec2(vUv.x, 1. - vUv.y)).r;
-        // black ink and black logo on an opaque white page, the same on every GPU
-        // (the old transparent output let the canvas background show through on desktop)
-        vec3 ink = clamp(C, 0., 1.);
-        float mark = clamp(text, 0., 1.);
-        gl_FragColor = vec4(vec3(1.) - max(ink, vec3(mark)), 1.);
+        float a = max(C.r, max(C.g, C.b));
+        a += text;
+        gl_FragColor = vec4(vec3(1.) - C, a);
     }
 </script>
 

diff --git a/sketches/flare/index.html b/sketches/flare/index.html
@@ -9,15 +9,11 @@
         .art-credit { position: fixed; left: 16px; bottom: 16px; display: flex; gap: 16px; font: 12px/1.4 ui-monospace, monospace; text-transform: uppercase; mix-blend-mode: difference; color: #fff; z-index: 10; }
         .art-credit a { color: inherit; text-decoration: none; }
         .art-credit a:hover { text-decoration: underline; }
-        /* the mark itself over the flare, sized like /logo-black: 0.403 of the width, 0.862 on a phone */
-        .flare-mark { position: fixed; left: 50%; top: 50%; width: 40.3vw; transform: translate(-50%, -50%); mix-blend-mode: difference; pointer-events: none; z-index: 5; }
-        @media (max-width: 768px) { .flare-mark { width: 86.2vw; } }
     </style>
 </head>
 
 <body>
     <canvas class="l-canvas"></canvas>
-    <img class="flare-mark" src="/flare/assets/img/logo.svg" alt="" />
     <nav class="art-credit">
         <a href="/">grbpwr / art</a>
         <span>flare</span>

diff --git a/sketches/emboss/src/parts/text.ts b/sketches/emboss/src/parts/text.ts
@@ -15,6 +15,8 @@ import { Util } from '../libs/util';
 /** Plane size per pixel of the wanted mark width, measured at rest (front layer + relief). */
 const FIT_LG = 3.95;
 const FIT_XS = 3.68;
+/** Mark width on a phone, share of the screen width (a bit smaller than /logo-black's 0.862). */
+const MARK_XS = 0.7;
 
 export class Text extends MyObject3D {
 
@@ -68,7 +70,7 @@ export class Text extends MyObject3D {
     // and 0.862 on a phone. FIT turns that into the stack's plane size (measured, see tmp probe bbox.mjs).
     const sw = Func.instance.sw();
     const xs = sw <= Conf.instance.BREAKPOINT;
-    let s = (xs ? 0.862 * FIT_XS : 0.403 * FIT_LG) * sw;
+    let s = (xs ? MARK_XS * FIT_XS : 0.403 * FIT_LG) * sw;
     s *= this._scale;
 
     this._mesh.scale.set(s, s, 1);

diff --git a/ink/index.html b/ink/index.html
@@ -184,11 +184,9 @@
     void main () {
         vec3 C = texture2D(u_output_texture, vUv).rgb;
         float text = texture2D(u_text_texture, vec2(vUv.x, 1. - vUv.y)).r;
-        // black ink and black logo on an opaque white page, the same on every GPU
-        // (the old transparent output let the canvas background show through on desktop)
-        vec3 ink = clamp(C, 0., 1.);
-        float mark = clamp(text, 0., 1.);
-        gl_FragColor = vec4(vec3(1.) - max(ink, vec3(mark)), 1.);
+        float a = max(C.r, max(C.g, C.b));
+        a += text;
+        gl_FragColor = vec4(vec3(1.) - C, a);
     }
 </script>
 

diff --git a/dist/flare/index.html b/dist/flare/index.html
@@ -8,12 +8,11 @@
     
   <script type="module" crossorigin src="/flare/assets/index.492183d3.js"></script>
   <link rel="modulepreload" href="/flare/assets/vendor.ce827b87.js">
-  <link rel="stylesheet" href="/flare/assets/index.ec476c0a.css">
+  <link rel="stylesheet" href="/flare/assets/index.b4317cf6.css">
 </head>
 
 <body>
     <canvas class="l-canvas"></canvas>
-    <img class="flare-mark" src="/flare/assets/img/logo.svg" alt="" />
     <nav class="art-credit">
         <a href="/">grbpwr / art</a>
         <span>flare</span>

diff --git a/public/flare/index.html b/public/flare/index.html
@@ -8,12 +8,11 @@
     
   <script type="module" crossorigin src="/flare/assets/index.492183d3.js"></script>
   <link rel="modulepreload" href="/flare/assets/vendor.ce827b87.js">
-  <link rel="stylesheet" href="/flare/assets/index.ec476c0a.css">
+  <link rel="stylesheet" href="/flare/assets/index.b4317cf6.css">
 </head>
 
 <body>
     <canvas class="l-canvas"></canvas>
-    <img class="flare-mark" src="/flare/assets/img/logo.svg" alt="" />
     <nav class="art-credit">
         <a href="/">grbpwr / art</a>
         <span>flare</span>

diff --git a/dist/emboss-black/index.html b/dist/emboss-black/index.html
@@ -6,7 +6,7 @@
     <meta name="viewport" content="width=device-width, initial-scale=1.0, user-scalable=no" />
     <title>emboss — grbpwr</title>
     
-  <script type="module" crossorigin src="/emboss/assets/index.acd14d05.js"></script>
+  <script type="module" crossorigin src="/emboss/assets/index.5905b0ac.js"></script>
   <link rel="modulepreload" href="/emboss/assets/vendor.ce827b87.js">
   <link rel="stylesheet" href="/emboss/assets/index.0113b576.css">
 </head>

diff --git a/dist/emboss-white/index.html b/dist/emboss-white/index.html
@@ -6,7 +6,7 @@
     <meta name="viewport" content="width=device-width, initial-scale=1.0, user-scalable=no" />
     <title>emboss — grbpwr</title>
     
-  <script type="module" crossorigin src="/emboss/assets/index.acd14d05.js"></script>
+  <script type="module" crossorigin src="/emboss/assets/index.5905b0ac.js"></script>
   <link rel="modulepreload" href="/emboss/assets/vendor.ce827b87.js">
   <link rel="stylesheet" href="/emboss/assets/index.0113b576.css">
 </head>

diff --git a/dist/emboss/index.html b/dist/emboss/index.html
@@ -6,7 +6,7 @@
     <meta name="viewport" content="width=device-width, initial-scale=1.0, user-scalable=no" />
     <title>emboss — grbpwr</title>
     
-  <script type="module" crossorigin src="/emboss/assets/index.acd14d05.js"></script>
+  <script type="module" crossorigin src="/emboss/assets/index.5905b0ac.js"></script>
   <link rel="modulepreload" href="/emboss/assets/vendor.ce827b87.js">
   <link rel="stylesheet" href="/emboss/assets/index.0113b576.css">
 </head>

diff --git a/public/emboss-black/index.html b/public/emboss-black/index.html
@@ -6,7 +6,7 @@
     <meta name="viewport" content="width=device-width, initial-scale=1.0, user-scalable=no" />
     <title>emboss — grbpwr</title>
     
-  <script type="module" crossorigin src="/emboss/assets/index.acd14d05.js"></script>
+  <script type="module" crossorigin src="/emboss/assets/index.5905b0ac.js"></script>
   <link rel="modulepreload" href="/emboss/assets/vendor.ce827b87.js">
   <link rel="stylesheet" href="/emboss/assets/index.0113b576.css">
 </head>
